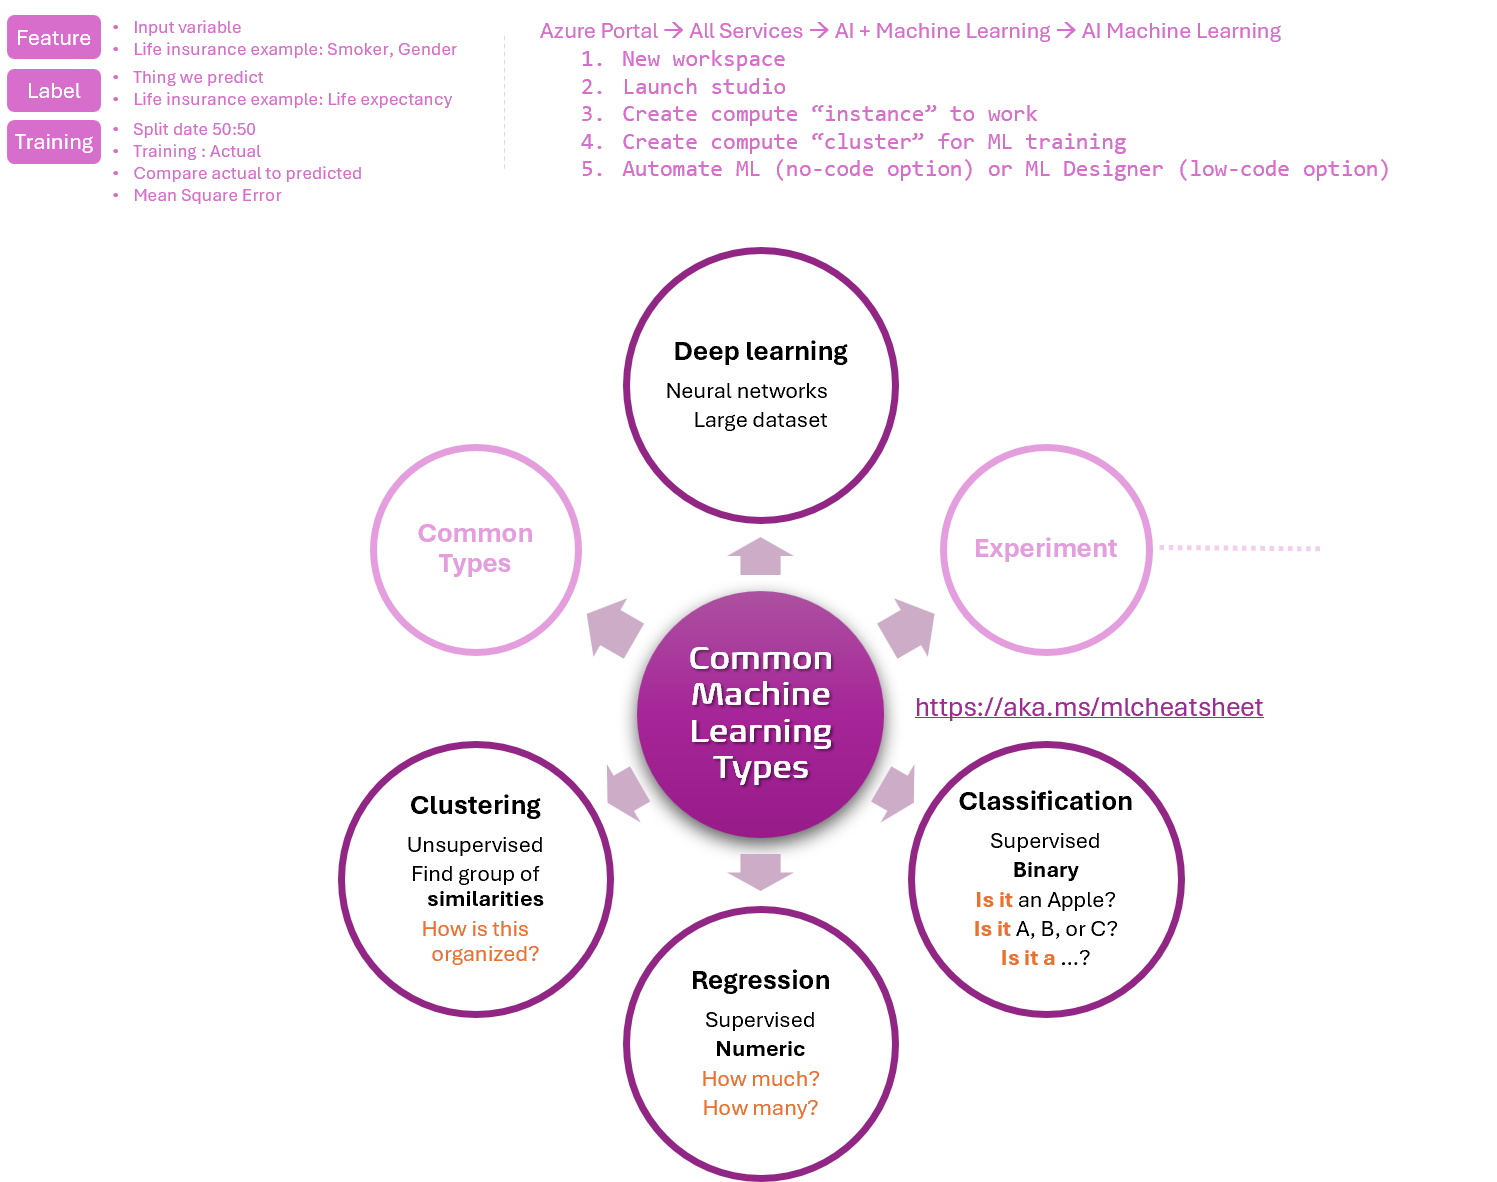
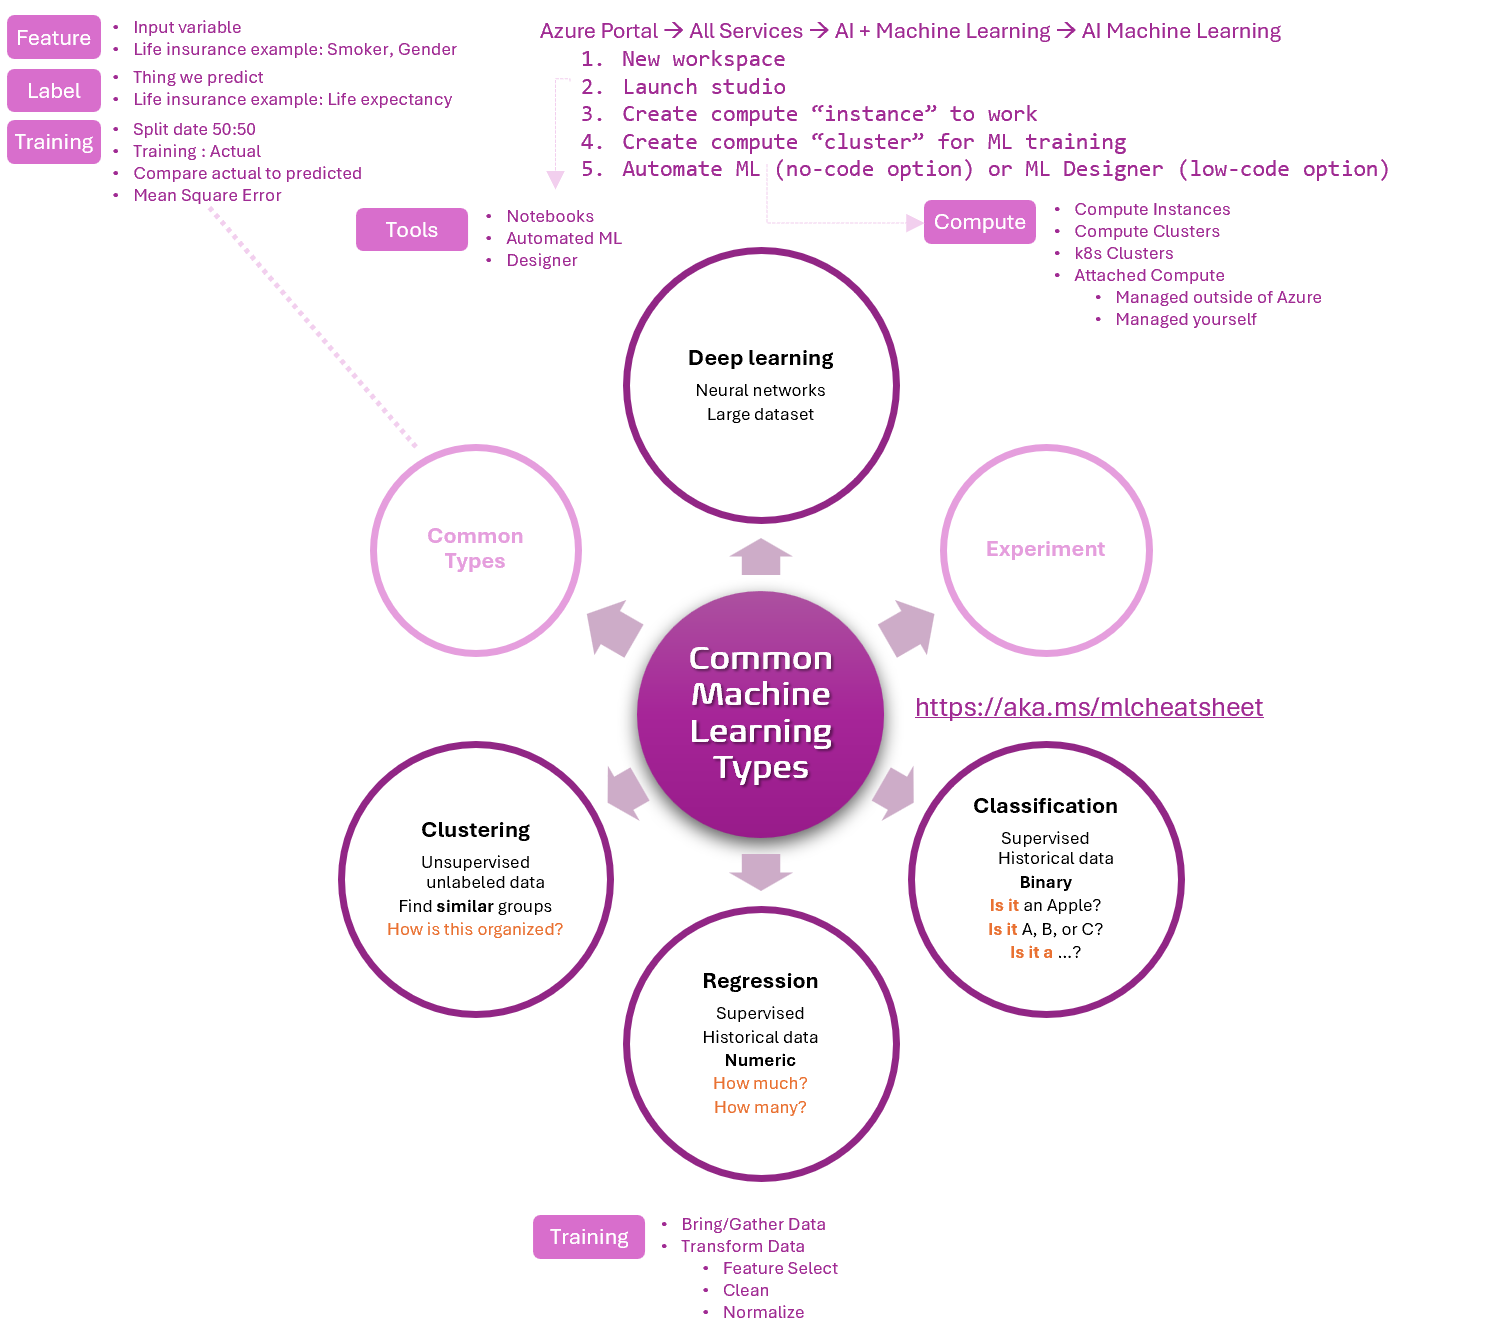
Update AI-900 study notes for QnA Maker and common machine learning types based on p1-10.

diff --git a/content/ai-fundamentals-ai900-common-machine-learning-types.md b/content/ai-fundamentals-ai900-common-machine-learning-types.md
@@ -14,17 +14,17 @@ Summary: "AI machine learning (ML) refers to the subset of artificial intelligen
 
 ## Notes
 
-- TBD
+- Training a **Regression** model involves data gathering and transformation: Feature selection --> Cleaning --> Normalization (or feature engineering).
 
 ## Example
 
 >
->You need to examine historical data to forecast price ranges for your product. Label = prediction = price range.
+> You need to examine historical data to forecast price ranges for your product. Label = prediction = price range.
 >
 
 - The **classification** model is ``suitable`` for supervised learning to determine ``is it`` a low, medium, high, or very high price.
 - The **regression** model is ``inappropriate`` because it forecasts numerical values rather than determining whether something belongs to the "is it" class.
-The **clustering** model is ``inappropriate`` because it clusters unlabeled data into similar groups.
+- The **clustering** model is ``inappropriate`` because it clusters unlabeled data into similar groups.
 
 ---
 

diff --git a/content/ai-fundamentals-ai900-guiding-principles.md b/content/ai-fundamentals-ai900-guiding-principles.md
@@ -32,6 +32,10 @@ Here are a few examples of solutions that adhere to guiding principles:
 - Microsoft’s [Seeing AI](https://www.microsoft.com/en-us/garage/wall-of-fame/seeing-ai/?msockid=00c538c26eda63c107f52ca16fce622e) solution helps visually impaired people by describing their surroundings, recognizing people, and reading text aloud, promoting inclusivity and access to technology for everyone.
 - Microsoft's [AI for Earth](https://news.microsoft.com/apac/features/ai-for-earth-helping-save-the-planet-with-data-science/?msockid=00c538c26eda63c107f52ca16fce622e) uses AI to address environmental challenges, from climate change to biodiversity loss, ensuring AI contributes positively to the planet’s sustainability.
 
+## FRAUPIT
+
+Not ideal, but I use the FRAUPIT catch phrase to remember: **F**airness, **R**eliability & Safety, **A**ccountability, **U**nintended Consequences, **P**rivacy & Security, **I**nclusivity, and **T**ransparency.
+
 ---
 
 You perused:

diff --git a/content/ai-fundamentals-ai900-vision-workloads.md b/content/ai-fundamentals-ai900-vision-workloads.md
@@ -12,8 +12,12 @@ Summary: "Vision workloads in AI refer to tasks that involve processing and anal
 
 > ![vision-workloads](../images/ai-fundamentals-ai900-vision-workloads.png) 
 
-- X
-- X
+## Notes
+
+- **Custom Vision** service has a model you can build and train for classification or object detection.
+- **Form Recognizer** service has a custom model users can train, or a pre-built receipt model trained to work with receipts.
+- **Image Classification** classifies objects based on their content to answer the "what is the image?" question.
+- **Semantic Segmentation** classifies pixels that belong to objects (detects) and highlights the object boundaries.
 
 ---
 

diff --git a/content/ai-fundamentals-ai900-natural-language-processing.md b/content/ai-fundamentals-ai900-natural-language-processing.md
@@ -12,8 +12,10 @@ Summary: "Natural Language Processing (NLP) is a branch of AI that enables compu
 
 > ![natural-language-processing](../images/ai-fundamentals-ai900-natural-language-processing.png) 
 
-- X
-- X
+**NOTES**
+
+- **Language Understanding Intelligent Service (LUIS)** understands voice or text commands.
+- **Text Analysis** service helps to analyse documents, detect documents' **language**, extract **key phrases**, determine **entities**, and provide **sentiment analysis**.
 
 ---
 

diff --git a/content/ai-fundamentals-ai900-bots.md b/content/ai-fundamentals-ai900-bots.md
@@ -14,8 +14,9 @@ Summary: Conversational AI workloads - no longer part of AI-900 certification!
 
 Even though conversational AI is no longer part of the AI-900 certification and has been replaced by generative AI, I will still share my notes for nostalgia.
 
-- X
-- X
+## Notes
+
+- **QnA Maker** Service can populate a knowledgebase using a question&answer (Q&A) document. Being retired in March 2025.
 
 ---
 
